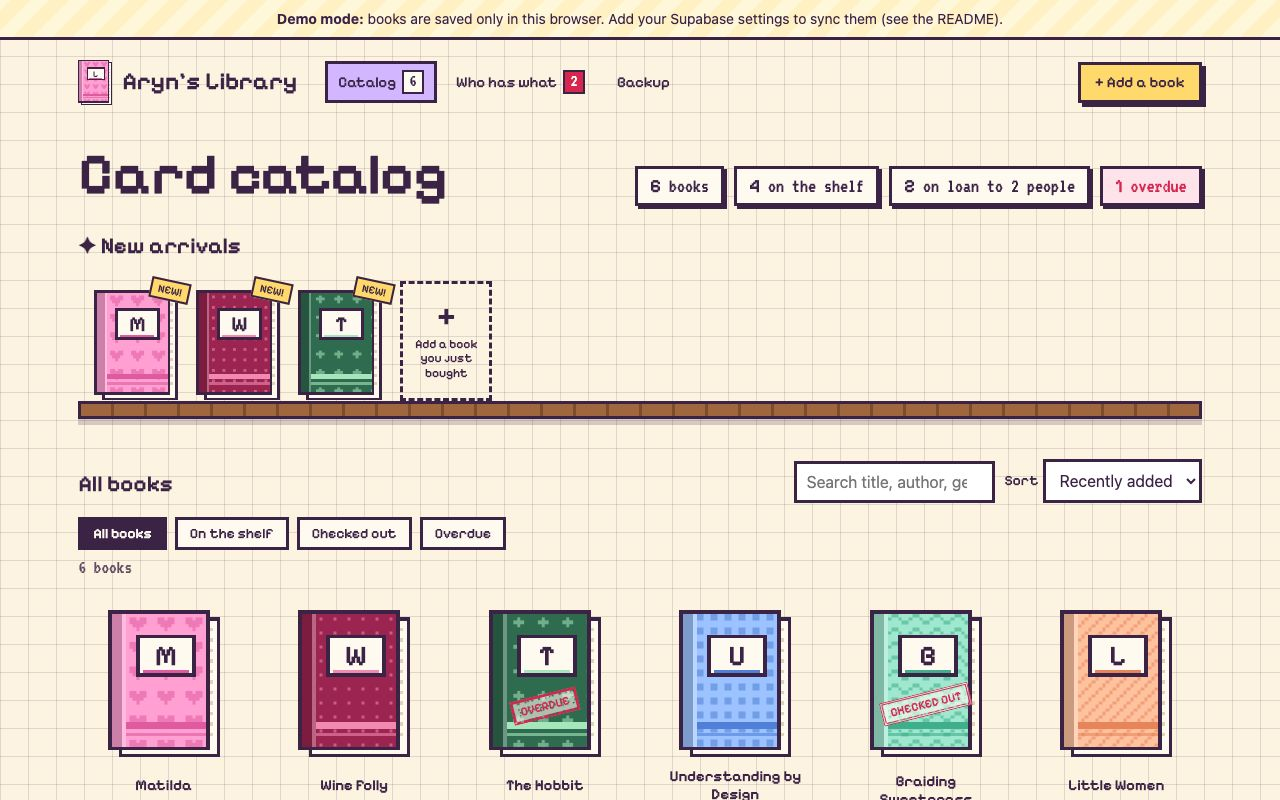
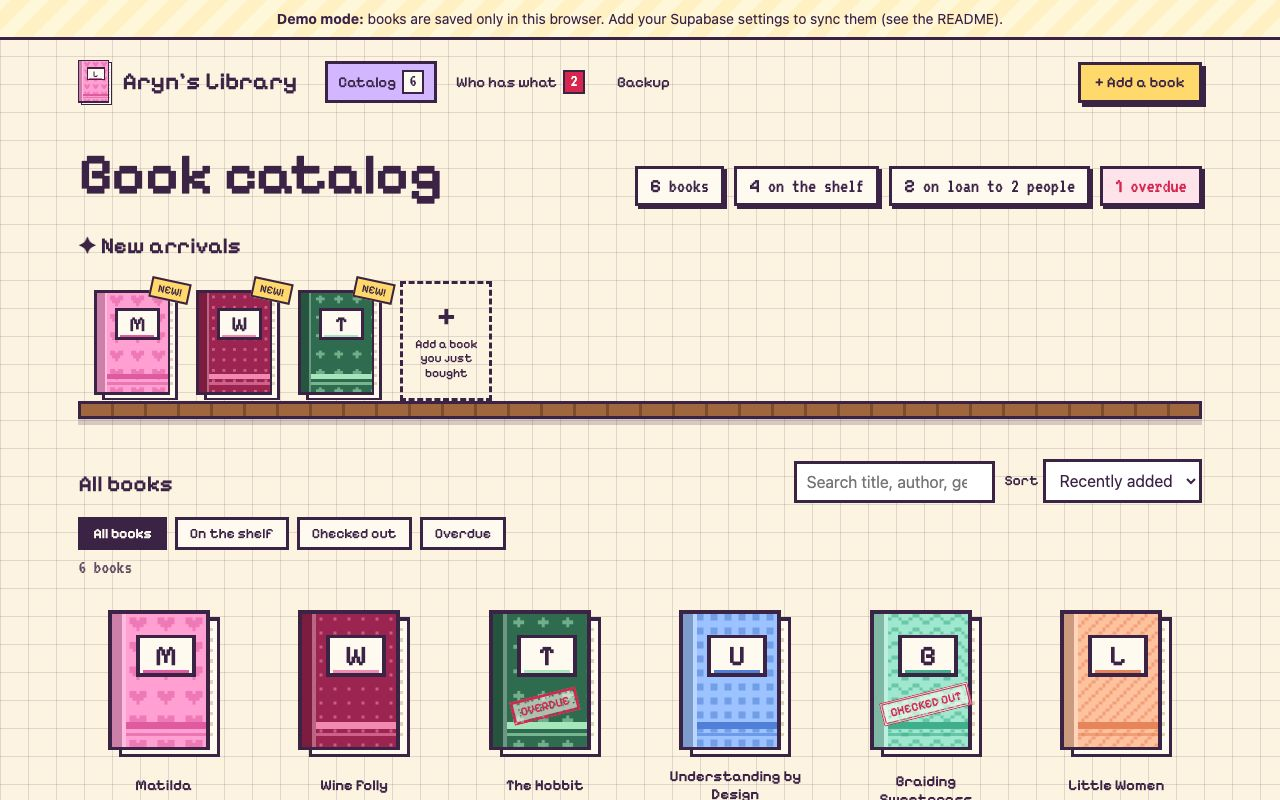
Call it the Book catalog
The main page heading, the no-JavaScript message and the README now say
'Book catalog' instead of 'Card catalog'. Retake the catalog screenshot.

Changed region(s): [[0.0938, 0.1875, 0.375, 0.25]]

diff --git a/src/pages/Catalog.tsx b/src/pages/Catalog.tsx
@@ -78,7 +78,7 @@ export default function Catalog() {
   return (
     <>
       <section className="hero" aria-labelledby="catalog-title">
-        <h1 id="catalog-title">Card catalog</h1>
+        <h1 id="catalog-title">Book catalog</h1>
         <ul className="stats" aria-label="Library at a glance">
           <li>
             <strong>{books.length}</strong> {books.length === 1 ? 'book' : 'books'}

diff --git a/index.html b/index.html
@@ -13,7 +13,7 @@
   </head>
   <body>
     <div id="root"></div>
-    <noscript>This library needs JavaScript to open its card catalog.</noscript>
+    <noscript>This library needs JavaScript to open its book catalog.</noscript>
     <script type="module" src="/src/main.tsx"></script>
   </body>
 </html>

diff --git a/README.md b/README.md
@@ -4,7 +4,7 @@ Live at **[library.arynlynn.com](https://library.arynlynn.com)**.
 
 A cozy, pixel-art catalog for my physical book collection. It keeps track of every book I own, which ones I’ve lent out, who has them, and for how long.
 
-- **Card catalog:** every book as a cute pixel cover, with search, filters (on the shelf, checked out, overdue) and sorting.
+- **Book catalog:** every book as a cute pixel cover, with search, filters (on the shelf, checked out, overdue) and sorting.
 - **New arrivals shelf:** books added in the last 45 days, plus a quick “add a book you just bought” slot.
 - **Add books fast:** type an ISBN to fill in the title, author and year from [Open Library](https://openlibrary.org). Then pick a cover color and pattern (or hit **Surprise me**) and watch the preview update. Use **Add & start another** to enter a whole stack.
 - **Lending:** check a book out to someone with an optional due date. A rubber stamp slams onto the cover, and **RETURNED** stamps it when it comes back. Every book has an old-school pocket library card showing its loan history.
@@ -17,9 +17,9 @@ Built with React, TypeScript, Vite, and [Supabase](https://supabase.com) for sto
 
 Taken in demo mode (sample books) from the production build at 1280×800. Update them whenever a page's look changes (they live in `docs/screenshots/`).
 
-| Card catalog | Book page |
+| Book catalog | Book page |
 | --- | --- |
-| ![Card catalog with new arrivals and all books](docs/screenshots/catalog.jpg) | ![A book that's on the shelf](docs/screenshots/book.jpg) |
+| ![Book catalog with new arrivals and all books](docs/screenshots/catalog.jpg) | ![A book that's on the shelf](docs/screenshots/book.jpg) |
 | **Checked out (stamp and date-due card)** | **Who has what** |
 | ![A checked-out book with its stamp and date-due card](docs/screenshots/book-checked-out.jpg) | ![Loans grouped by borrower](docs/screenshots/loans.jpg) |
 | **Add a book** | **Backup** |
